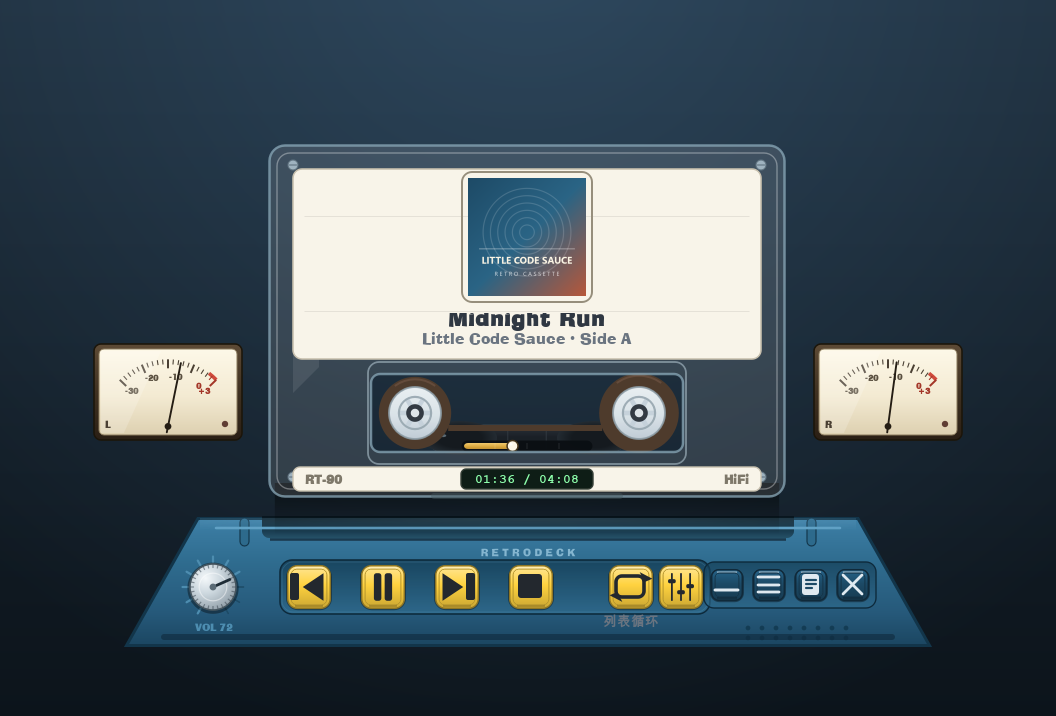
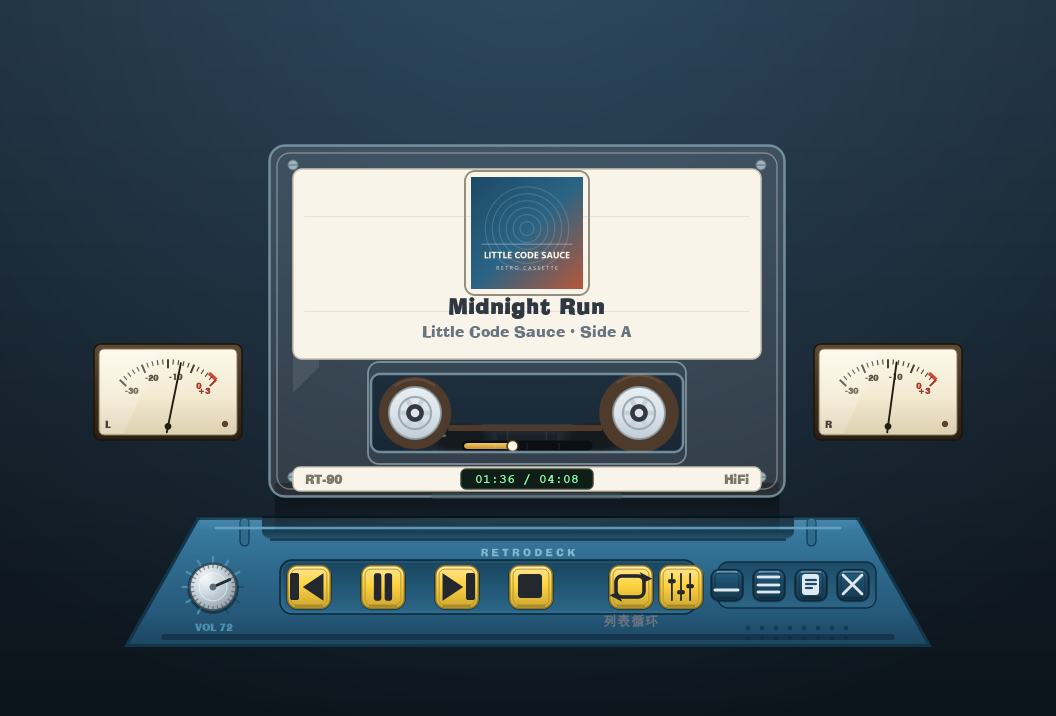
Fix title clipped by the cover art, and overlapping button wells
1) title text was clipped by the cover
   15.5pt bold CJK actually lays out about 24px tall, but the title rect was 20px high
   with AlignBottom - so the glyphs overflowed upward by ~4px and ran into the cover art's
   lower edge. The title rect is now (-210,-28,420,26) with AlignVCenter and the subtitle
   (-210,0,420,20); the cover is 118px at cy=-88 instead of 124px at cy=-84. Laid out so
   the cover, title and subtitle stack with visible gaps inside the 190px paper label
   (-152..38).

2) the two base button wells overlapped
   btn_console ended at svg x 580 and win_min began at 586 - only 6px apart - while each
   well needs 6px of margin at both ends, so the wells crossed each other. The buttons
   have been spread out (btn_console 610->596, win_min 662->676, win_menu 718,
   win_list 760, win_close 802) leaving 34px between the groups; the wells are now
   156..572 and 594..752, each with even margins and no overlap.

Verified by cropping both regions from an offscreen render with a long CJK title
("万大同 - 为你写的歌"): the title shows in full with clearance above it, and the two
wells are cleanly separated. Docs screenshots regenerated; smoke / verify_session /
verify_console_fixes / verify_tape_fx all pass.

Changed region(s): [[0.4062, 0.2458, 0.5938, 0.4916], [0.6562, 0.7682, 0.6875, 0.8603]]

diff --git a/app/deck_widget.py b/app/deck_widget.py
@@ -28,8 +28,8 @@ class DeckWidget(QWidget):
     CHROME_KEYS = ("win_min", "win_menu", "win_list", "win_close")
 
     # ---------------- 磁带内部几何（相对磁带中心，单位 px，对应 layout.tape 520x356） ----------------
-    COVER_SIZE = 124
-    COVER_CY = -84
+    COVER_SIZE = 118
+    COVER_CY = -88
     LABEL_RECT = QRectF(-234, -152, 468, 190)      # 白色标签纸
     WINDOW_RECT = QRectF(-156, 44, 312, 96)        # 中间观察窗（能看到两个齿轮盘）
     HUB_X = 112                                    # 齿轮盘中心 x（±），约等于实物磁带轮距比例
@@ -712,6 +712,8 @@ class DeckWidget(QWidget):
         p.drawRoundedRect(cr.adjusted(-3, -3, 3, 3), 10, 10)
 
         # 标题 / 副标题（写在标签纸上）
+        # 注意：15.5pt 粗体的中文实际排版高度约 24px，用 20px 的矩形配 AlignBottom 会
+        # 向上溢出、顶进封面下缘（表现为"标题的头顶被封面切掉"）。改用略高的矩形 + 垂直居中。
         fm = QFont()
         fm.setPointSizeF(15.5)
         fm.setBold(True)
@@ -719,14 +721,14 @@ class DeckWidget(QWidget):
         p.setPen(s.color("text_title"))
         title_w = self.fontMetrics().horizontalAdvance(self.title_text)
         shown = self.fontMetrics().elidedText(self.title_text, Qt.ElideRight, 420) if title_w > 420 else self.title_text
-        p.drawText(QRectF(-210, -8, 420, 20), Qt.AlignHCenter | Qt.AlignBottom, shown)
+        p.drawText(QRectF(-210, -28, 420, 26), Qt.AlignHCenter | Qt.AlignVCenter, shown)
         f2 = QFont()
         f2.setPointSizeF(11.0)
         p.setFont(f2)
         p.setPen(s.color("text_sub"))
         sub_w = self.fontMetrics().horizontalAdvance(self.sub_text)
         shown_sub = self.fontMetrics().elidedText(self.sub_text, Qt.ElideRight, 430) if sub_w > 430 else self.sub_text
-        p.drawText(QRectF(-210, 10, 420, 18), Qt.AlignHCenter | Qt.AlignBottom, shown_sub)
+        p.drawText(QRectF(-210, 0, 420, 20), Qt.AlignHCenter | Qt.AlignVCenter, shown_sub)
 
     def _paint_inner(self, p, a):
         """磁带内部结构：观察窗承座 + 两个磁带卷 + 旋转齿轮盘。

diff --git a/app/skin_loader.py b/app/skin_loader.py
@@ -20,14 +20,16 @@ DEFAULT_LAYOUT = {
     "btn_next":  (386, 516, 46, 46),
     "btn_stop":  (460, 516, 46, 46),
     "btn_loop":  (560, 516, 46, 46),
-    "win_min":   (662, 520, 34, 34),
-    "win_menu":  (704, 520, 34, 34),
-    "win_list":  (746, 520, 34, 34),
-    "win_close": (788, 520, 34, 34),
+    "win_min":   (676, 520, 34, 34),
+    "win_menu":  (718, 520, 34, 34),
+    "win_list":  (760, 520, 34, 34),
+    "win_close": (802, 520, 34, 34),
     "knob":      (134, 508, 64, 64),     # 音量旋钮（底座左端，窗口坐标）
     "vu_left":   (46, 296, 148, 96),     # 主界面左声道 VU 表（磁带左侧机身）
     "vu_right":  (766, 296, 148, 96),    # 右声道 VU 表
-    "btn_console": (610, 516, 46, 46),   # 呼出磁带 console 悬浮窗（控制键组与窗口键组之间）
+    # 呼出磁带 console 悬浮窗。它与窗口键组之间要留出足够间隙：底座上这两组各画一块
+    # 下沉面板，间距不够时两块凹槽会互相穿插（svg 里只有 6px 是放不下两边各 6px 余量的）。
+    "btn_console": (596, 516, 46, 46),
 }
 
 DEFAULT_COLORS = {
